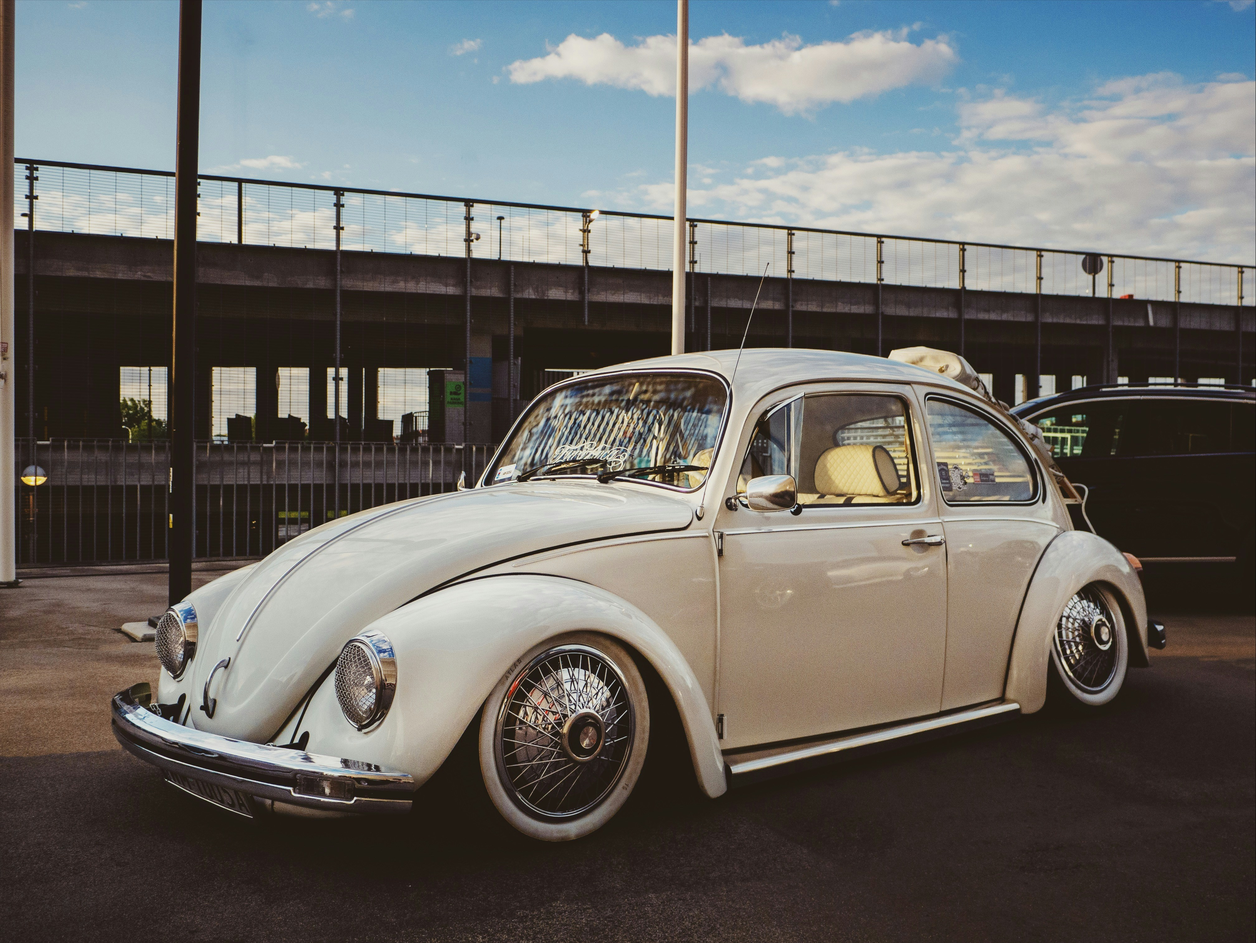
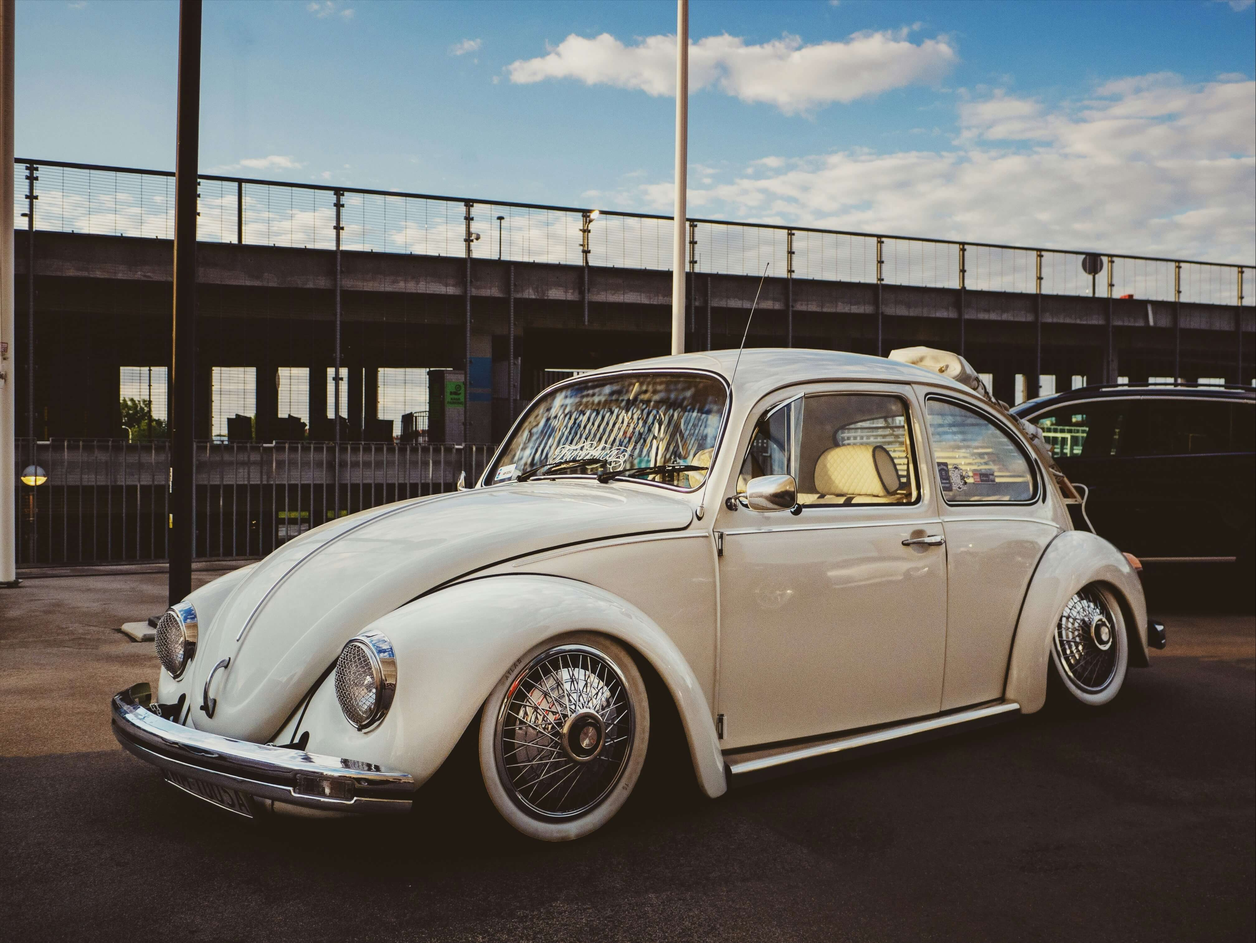
[UPDATE]: baje la calidad de las imagenes para evitar lag a la hora de cargar la pagina, cree el componente de suscribe.jsx y suscribe .css

diff --git a/src/components/Suscribe.css b/src/components/Suscribe.css
@@ -1,0 +1,109 @@
+.suscribe-container {
+    display: flex;
+    width: 100%;
+    min-height: 400px;
+    font-family: 'Montserrat', sans-serif;
+    position: relative;
+    padding: 0 10px;
+}
+
+.suscribe-left {
+    flex: 1;
+    display: flex;
+    align-items: center;
+    justify-content: center;
+    background-color: #fff;
+    position: relative;
+    z-index: 2;
+}
+
+.suscribe-box {
+    padding: 40px;
+    max-width: 450px;
+    text-align: left;
+    position: relative;
+    clip-path: polygon(0% 0%, 90% 0%, 100% 50%, 90% 100%, 0% 100%, 10% 50%);
+    background-color: #fff;
+    z-index: 3;
+    margin-right: -50px;
+    border: 4px solid goldenrod;
+}
+
+/* Doble borde usando ::before */
+.suscribe-box::before {
+    content: '';
+    position: absolute;
+    top: -10px;
+    left: -10px;
+    right: -10px;
+    bottom: -10px;
+    border: 2px solid goldenrod;
+    clip-path: polygon(0% 0%, 90% 0%, 100% 50%, 90% 100%, 0% 100%, 10% 50%);
+    z-index: -1;
+    background-color: transparent;
+}
+
+.suscribe-title {
+    font-weight: bold;
+    font-size: 1.5rem;
+    letter-spacing: 3px;
+    margin-bottom: 20px;
+}
+
+.suscribe-text {
+    color: #333;
+    font-size: 1rem;
+    line-height: 1.6;
+}
+
+.suscribe-right {
+    flex: 1;
+    background-image: url('../assets/carro3.jpg');
+    background-size: cover;
+    background-position: center;
+    display: flex;
+    align-items: center;
+    justify-content: center;
+    position: relative;
+    z-index: 1;
+}
+
+.suscribe-form {
+    background: rgba(0, 0, 0, 0.6);
+    padding: 20px 30px;
+    border: 1px solid #fff;
+    display: flex;
+    flex-direction: column;
+    gap: 15px;
+}
+
+.suscribe-input {
+    padding: 10px;
+    border: none;
+    border-bottom: 1px solid #fff;
+    background: transparent;
+    color: #fff;
+    font-size: 16px;
+    outline: none;
+}
+
+.suscribe-input::placeholder {
+    color: #fff;
+    letter-spacing: 1px;
+}
+
+.suscribe-button {
+    padding: 10px;
+    border: 1px solid #fff;
+    background: transparent;
+    color: #fff;
+    cursor: pointer;
+    letter-spacing: 3px;
+    font-weight: bold;
+    transition: background 0.3s, color 0.3s;
+}
+
+.suscribe-button:hover {
+    background: #fff;
+    color: #000;
+}

diff --git a/src/components/Suscribe.jsx b/src/components/Suscribe.jsx
@@ -1,0 +1,25 @@
+import React from 'react';
+import './Suscribe.css';
+
+const Suscribe = () => {
+  return (
+    <div className="suscribe-container">
+      <div className="suscribe-left">
+        <div className="suscribe-box">
+          <h2 className="suscribe-title">NEWSLETTER</h2>
+          <p className="suscribe-text">
+            Subscribe to the COLLECTIONCARS mailing list to receive updates on new arrivals, special offers and other discount information.
+          </p>
+        </div>
+      </div>
+      <div className="suscribe-right">
+        <div className="suscribe-form">
+          <input type="email" placeholder="EMAIL" className="suscribe-input" />
+          <button className="suscribe-button">SUBSCRIBE</button>
+        </div>
+      </div>
+    </div>
+  );
+};
+
+export default Suscribe;

diff --git a/src/components/gallery.jsx b/src/components/gallery.jsx
@@ -25,7 +25,7 @@ const Gallery = () => {
           { src: "src/assets/carro1.jpg", name: "Ford Camioneta", price: "$50,000" },
           { src: "src/assets/carro2.jpg", name: "Nissan tsuru", price: "$45,000" },
           { src: "src/assets/carro3.jpg", name: "Chevrolet Camaro", price: "$47,000" },
-          { src: "src/assets/carro5.jpg", name: "WolksWagen Combi", price: "$80,000" },
+          { src: "src/assets/carro9.jpg", name: "WolksWagen Combi", price: "$80,000" },
           { src: "src/assets/carro6.jpg", name: "BMW M4", price: "$70,000" },
           { src: "src/assets/carro7.jpg", name: "Audi R8", price: "$130,000" },
           { src: "src/assets/carro8.jpg", name: "Vocho", price: "$60,000" },

diff --git a/src/App.jsx b/src/App.jsx
@@ -1,6 +1,7 @@
   import './App.css'
 import Navbar from './components/Navbar'
 import Seccion01 from './components/Seccion01'
+import Suscribe from './components/Suscribe'
 import FeaturedCars from './components/feacturesCard'
 import Gallery from './components/gallery'
 
@@ -11,10 +12,16 @@ function App() {
 
   return (
     <>
-      <Navbar/>
-      <Seccion01/>
-      <FeaturedCars/>
-      <Gallery></Gallery>
+      <Navbar />
+      <br />
+      <Seccion01 />
+      <br />
+      <FeaturedCars />
+      <br />
+      <Gallery />
+      <br />
+      <Suscribe />
+      <br />
 
     </>
   )
